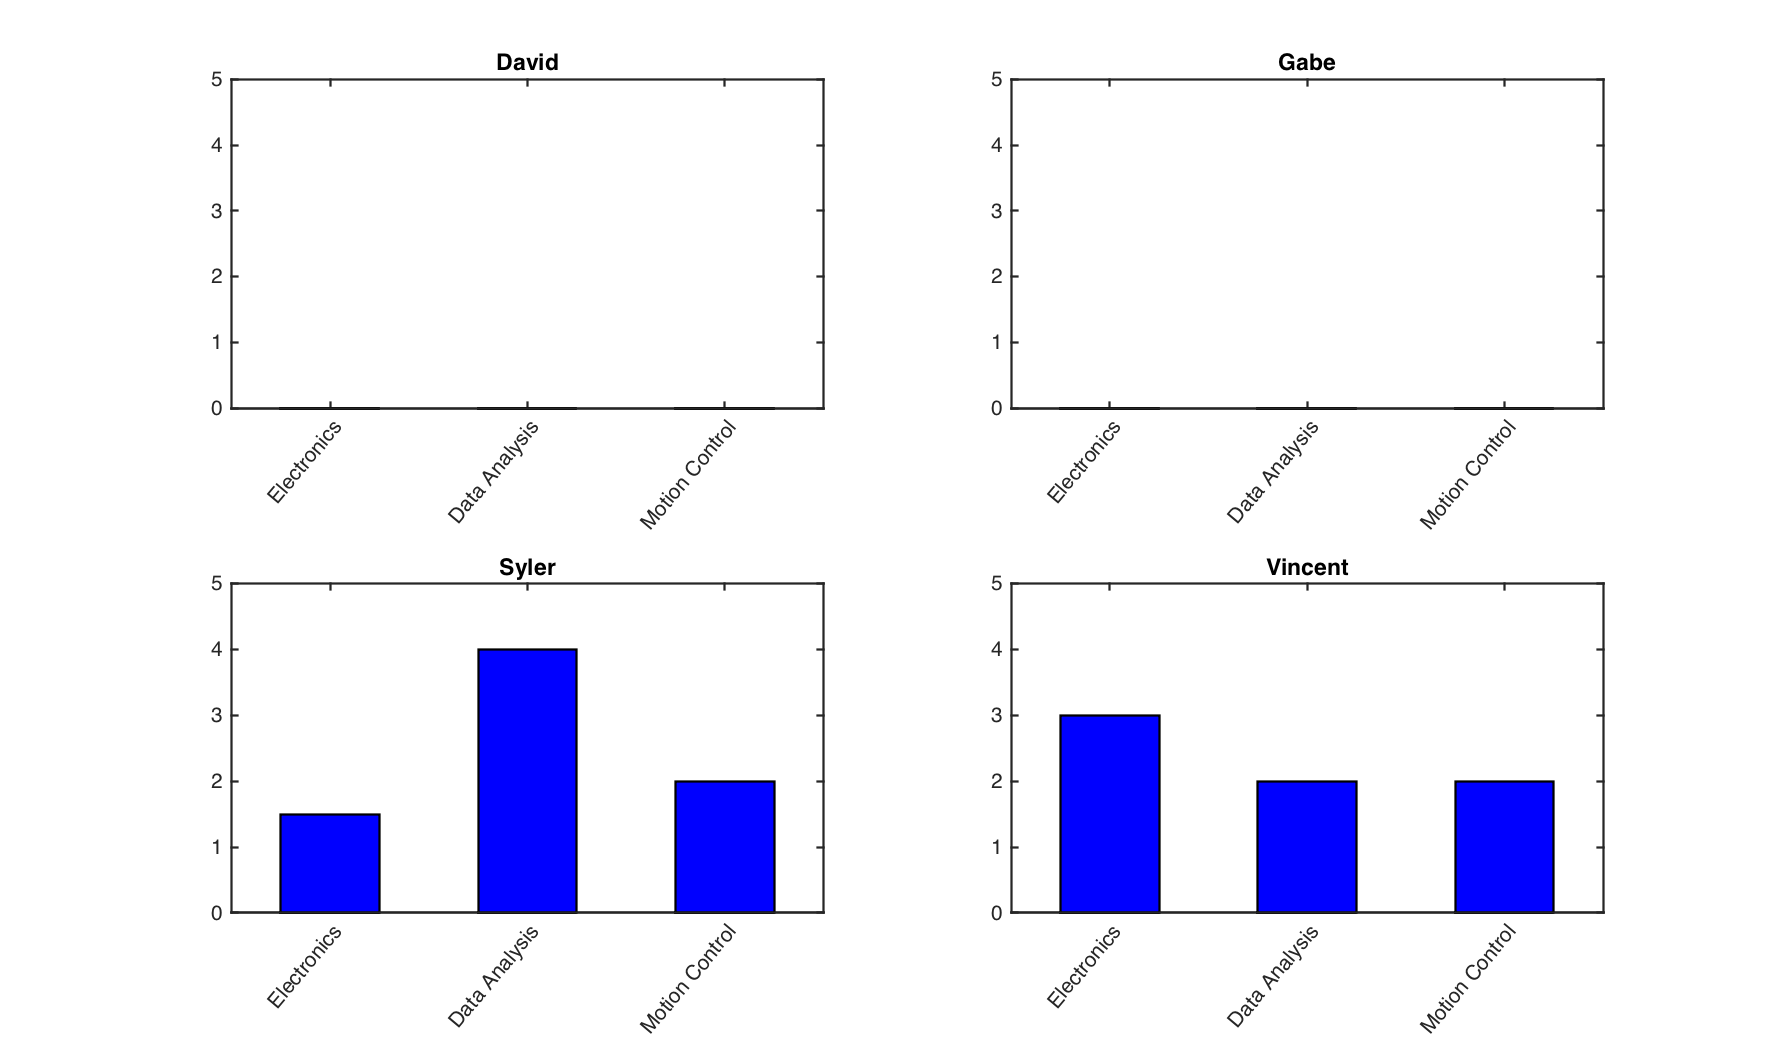
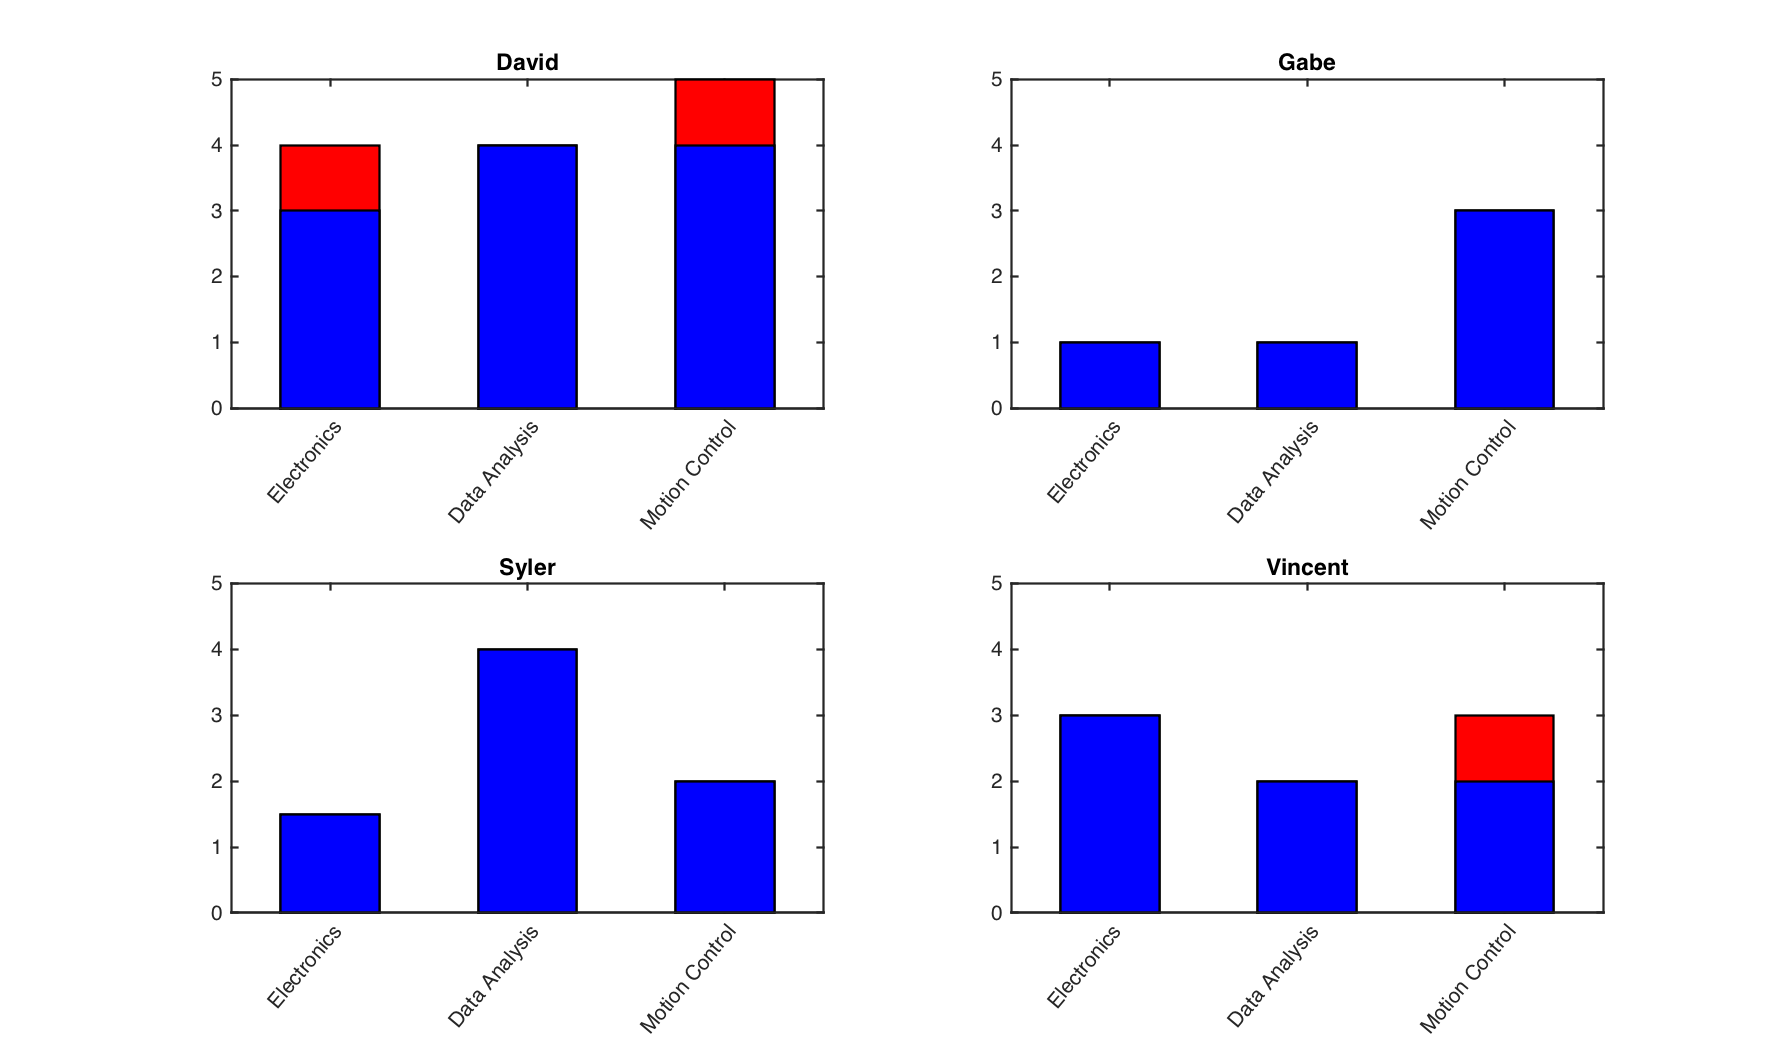
updated self-assessment plot

diff --git a/lab5/docs/L5_self_assessment_plot.m b/lab5/docs/L5_self_assessment_plot.m
@@ -1,17 +1,17 @@
 
 close all;
 
-D1 = [0 0 0]; % before
-D2 = [0 0 0]; % after
+D1 = [3 4 4]; % before
+D2 = [4 4 5]; % after
 
-G1 = [0 0 0];
-G2 = [0 0 0];
+G1 = [1 1 3];
+G2 = [1 1 3];
 
 S1 = [1.5 4 2];
-S2 = [0 0 0];
+S2 = [1.5 4 2];
 
 V1 = [3 2 2];
-V2 = [0 0 0];
+V2 = [3 2 3];
 
 % bar x-axis labels
 lab = {'Electronics','Data Analysis','Motion Control'};
